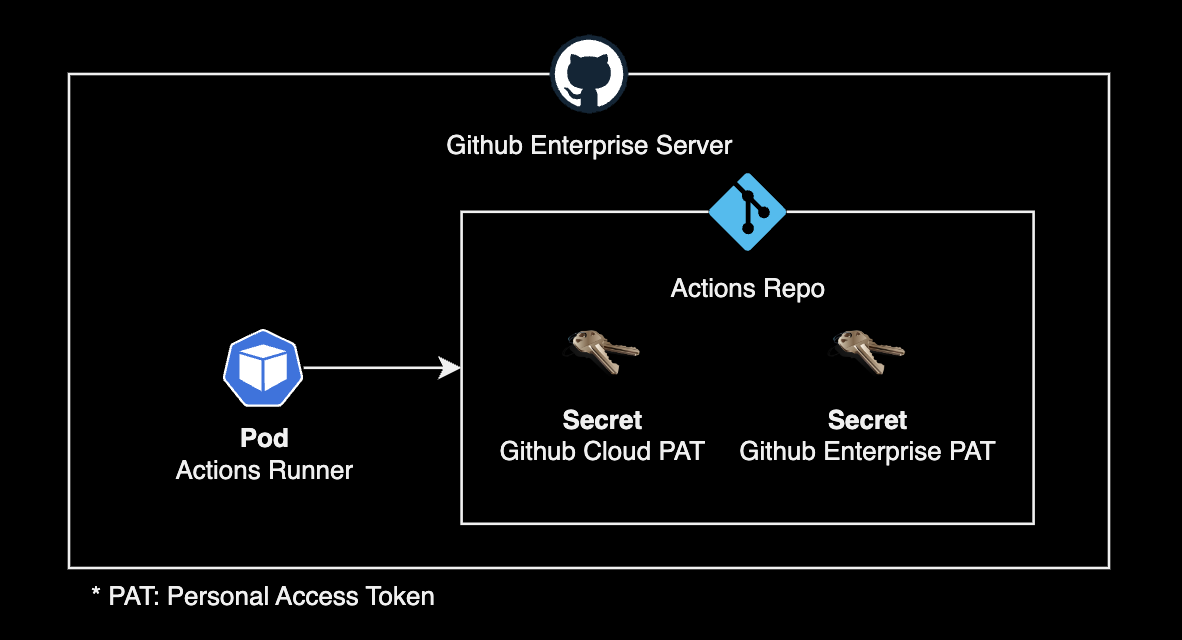
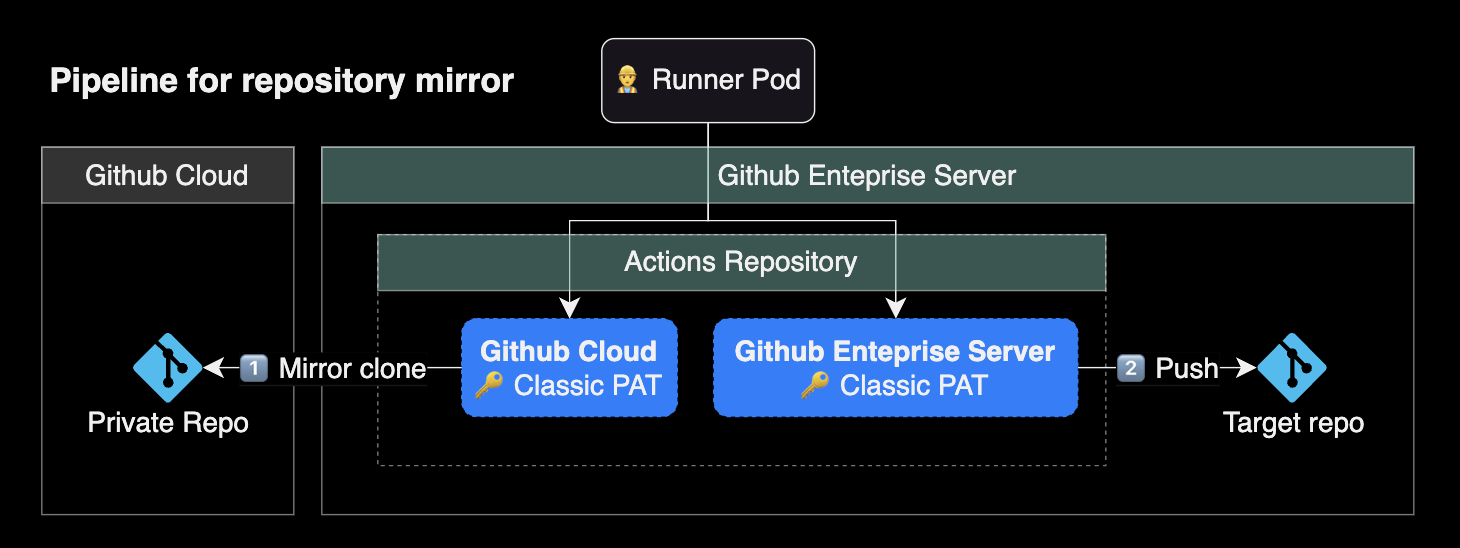
chore: Update content

diff --git a/content/blog/ghes-mirror-action/index.md b/content/blog/ghes-mirror-action/index.md
@@ -64,22 +64,28 @@ actions-runner   mgmt-cd-runner-wrftn-wxgwq      doge                           
 
 &nbsp;
 
-## 구현
+## 자동화 구현
 
-Mirror Clone을 받아오는 동작방식은 다음과 같습니다.
+### Actions Workflow 구성
+
+Mirror Clone을 받아오는 파이프라인 동작방식은 다음과 같습니다.
 
 ![Architecture](./1.png)
 
+> PAT는 Personal Access Token의 줄임말입니다. 자세한 사항은 Github 공식문서의 [개인용 액세스 토큰 관리](https://docs.github.com/ko/authentication/keeping-your-account-and-data-secure/managing-your-personal-access-tokens) 페이지를 참고합니다.
+
+Github Cloud에 위치한 Private repository를 PAT를 사용해서 받아온 후, Github Enterprise Server에 위치한 Repository로 mirror push 합니다.
+
 &nbsp;
 
-Github Enterprise Server에서 2개의 레포를 생성합니다.
+GitHub Enterprise Server에서 두 개의 레포지터리를 생성합니다.
 
 ![레포 생성 결과](./2.png)
 
-2개의 레포는 각각 복제본 결과물을 담는 레포지터리, Actions Workflow가 실행되는 역할을 하는 레포지터리입니다.
+이 두 레포지터리는 각각 복제본 결과물을 담는 레포지터리와 Actions Workflow가 실행되는 역할을 합니다.
 
-- **charting_library** : Mirror clone 받아온 복제본 레포
-- **charting-library-mirror** : Mirror clone 자동화용 Actions가 실행되는 레포
+- **charting_library**: Mirror clone을 받아온 복제본 레포지터리
+- **charting-library-mirror**: Mirror clone 자동화용 Actions가 실행되는 레포지터리
 
 &nbsp;
 
@@ -89,10 +95,8 @@ Actions Workflow 코드입니다.
 name: Mirror clone private repository from Github Cloud
 
 on:
-  # 수동으로 워크플로우를 실행할 수 있도록 함
   workflow_dispatch:
-  
-  # 하루에 한 번, UTC 00:00(KST 09:00)에 실행되도록 스케줄 설정
+
   schedule:
     - cron: '0 0 * * *'
 
@@ -100,31 +104,67 @@ jobs:
   checkout_and_push:
     runs-on: [self-hosted, linux, build]
 
+    env:
+      GHC_SOURCE_REPO: tradingview/charting_library
+      GHE_TARGET_REPO: doge/charting_library
+      REPO_NAME: charting_library
+
     steps:
-    - name: Checkout Private Repo
+    - name: Checkout source repository
       id: clone
       run: |
-        git clone --mirror https://<GITHUB_CLOUD_USERNAME>:${{ secrets.ORG_GITHUB_CLOUD_ADMIN_PAT }}@github.com/tradingview/charting_library
+        git clone --mirror https://<GITHUB_CLOUD_USERNAME>:${{ secrets.ORG_GITHUB_CLOUD_ADMIN_PAT }}@github.com/${{ env.GHC_SOURCE_REPO }}
         ls -alh
 
     - name: Push to target repository
       id: push
-      # clone 단계가 성공했을 때만 push 실행
       if: ${{ steps.clone.outcome == 'success' }}
       run: |
-        cd charting_library.git
+        cd ${{ env.REPO_NAME }}.git
         git config user.name "github-admin"
         git config user.email "admin@doge.com"
-        git remote set-url --push origin https://${{ secrets.DOGECOMPANY_ORG_GITHUB_ENTERPRISE_ADMIN_PAT }}@github-enterprise.example.com/doge/charting_library.git
+        git remote set-url --push origin https://${{ secrets.DOGECOMPANY_ORG_GITHUB_ENTERPRISE_ADMIN_PAT }}@github-enterprise.example.com/${{ env.GHE_TARGET_REPO }}.git
         git push --mirror 2>&1 | tee push.log
 ```
 
+&nbsp;
+
+#### 파이프라인 디테일
+
 `on` 키워드를 보면 크게 2가지 조건에 의해 Mirror Clone이 트리거됩니다.
+
+```yaml
+on:
+  # 수동으로 워크플로우를 실행할 수 있도록 함
+  workflow_dispatch:
+
+  # 하루에 한 번, UTC 00:00(KST 09:00)에 실행되도록 스케줄 설정
+  schedule:
+    - cron: '0 0 * * *'
+```
 
 - `worfklow_dispatch` : Actions 레포에서 관리자가 직접 실행
 - `schedule` : Cron Schedule 기반의 정기적인 실행
 
 &nbsp;
+
+`push` 스탭은 이전 스탭인 `clone` 과정이 성공한 경우에만 실행되도록 아래와 같이 `if`를 추가합니다.
+
+```yaml
+    - name: Push to target repository
+      id: push
+      # clone 스탭이 성공했을 때만 push 스탭을 실행
+      if: ${{ steps.clone.outcome == 'success' }}
+```
+
+조건부 실행에 대한 자세한 사용 예시은 아래 페이지를 참고하세요.
+
+- **Stack overflow**: [Running a GitHub Actions step only if previous step has run](https://stackoverflow.com/a/70549615)
+- **Github docs**: [steps context](https://docs.github.com/en/actions/learn-github-actions/contexts#steps-context)
+
+&nbsp;
+
+### Actions Secret 구성
 
 Github Enterprise Server에 위치한 Mirror용 Repository에는 2개의 Actions Secret을 생성해두어야 합니다.
 
@@ -132,3 +172,4 @@ Github Enterprise Server에 위치한 Mirror용 Repository에는 2개의 Actions
 
 - `${{ secrets.ORG_GITHUB_CLOUD_ADMIN_PAT }}`에는 Github Cloud 계정의 PAT를 시크릿으로 생성해야 합니다.
 - `${{ secrets.DOGECOMPANY_ORG_GITHUB_ENTERPRISE_ADMIN_PAT }}`에는 Github Enterprise Server의 관리자 계정 PAT를 시크릿으로 생성해야 합니다.
+  - PAT에 필요한 권한은 `repo:*`
